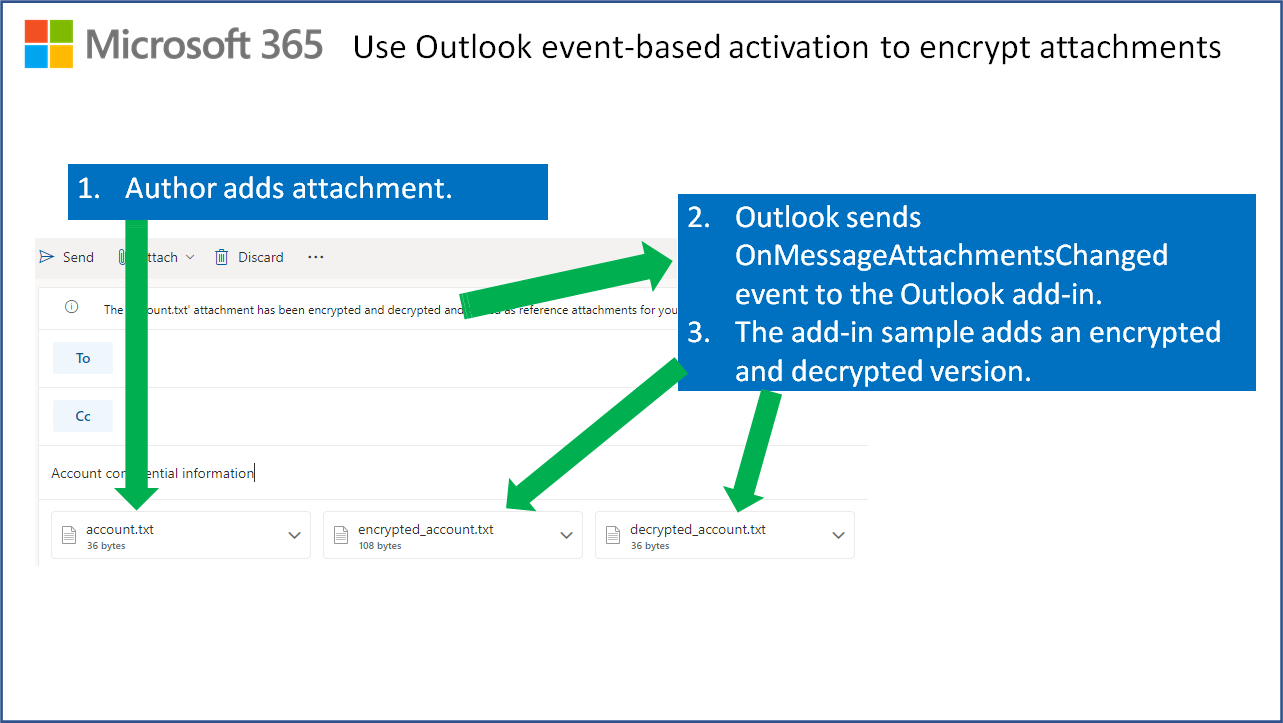
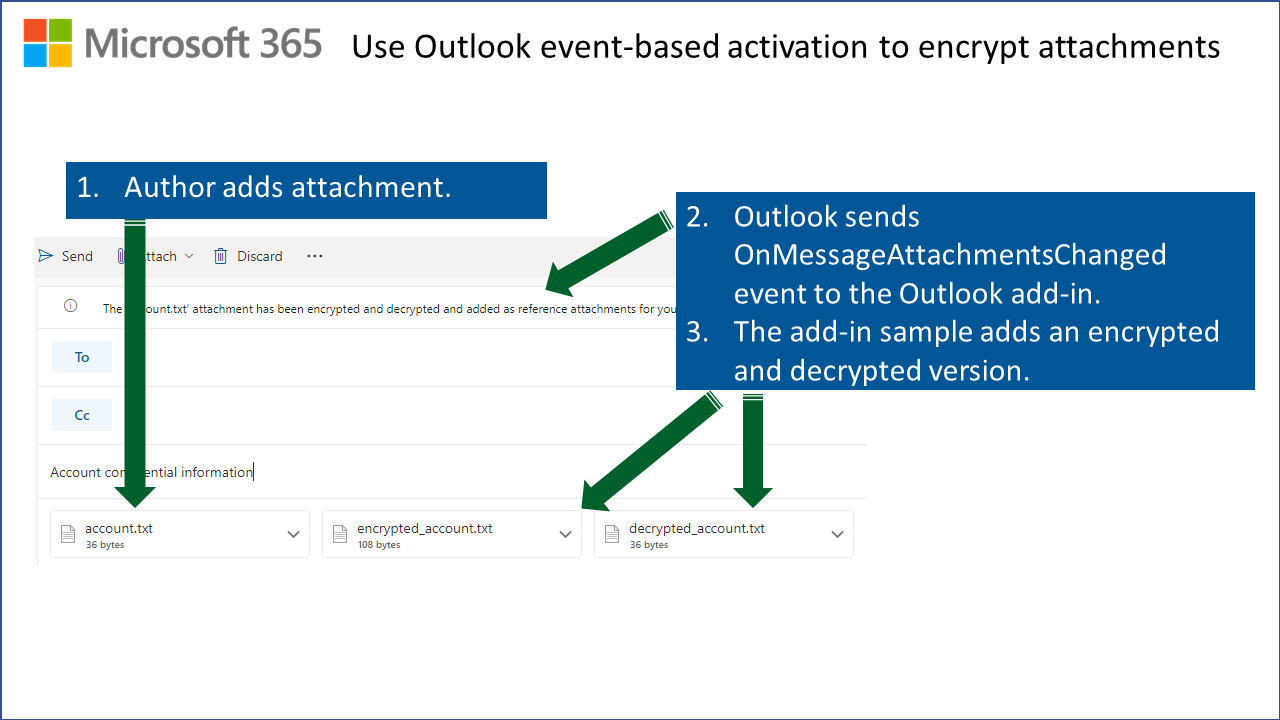
Update overview screenshot, apply formatting fixes, update links and CDN

diff --git a/Samples/outlook-encrypt-attachments/src/taskpane/taskpane_appt_compose.html b/Samples/outlook-encrypt-attachments/src/taskpane/taskpane_appt_compose.html
@@ -9,8 +9,7 @@
     <meta name="viewport" content="width=device-width, initial-scale=1">
     <title>Outlook Event-Based Activation Sample Add-in</title>
 
-    <!-- Office JavaScript ***PREVIEW*** API -->
-    <script type="text/javascript" src="https://appsforoffice.microsoft.com/lib/beta/hosted/office.js"></script>
+    <script type="text/javascript" src="https://appsforoffice.microsoft.com/lib/1.1/hosted/office.js"></script>
     <script type="text/javascript" src="taskpane.js"></script>
     <!-- For more information on Fluent UI, visit https://developer.microsoft.com/fluentui#/. -->
     <link rel="stylesheet" href="https://static2.sharepointonline.com/files/fabric/office-ui-fabric-core/9.6.1/css/fabric.min.css"/>

diff --git a/Samples/outlook-encrypt-attachments/src/taskpane/taskpane_msg_compose.html b/Samples/outlook-encrypt-attachments/src/taskpane/taskpane_msg_compose.html
@@ -9,8 +9,7 @@
     <meta name="viewport" content="width=device-width, initial-scale=1">
     <title>Outlook Event-Based Activation Sample Add-in</title>
 
-    <!-- Office JavaScript ***PREVIEW*** API -->
-    <script type="text/javascript" src="https://appsforoffice.microsoft.com/lib/beta/hosted/office.js"></script>
+    <script type="text/javascript" src="https://appsforoffice.microsoft.com/lib/1.1/hosted/office.js"></script>
     <script type="text/javascript" src="taskpane.js"></script>
     <!-- For more information on Fluent UI, visit https://developer.microsoft.com/fluentui#/. -->
     <link rel="stylesheet" href="https://static2.sharepointonline.com/files/fabric/office-ui-fabric-core/9.6.1/css/fabric.min.css"/>

diff --git a/Samples/outlook-encrypt-attachments/src/taskpane/taskpane.js b/Samples/outlook-encrypt-attachments/src/taskpane/taskpane.js
@@ -6,7 +6,7 @@
 /* global document, Office */
 
 Office.onReady((info) => {
-  console.log(`Office.onReady(): Host: ${Office.HostType.Outlook}`)
+  console.log(`Office.onReady(): Host: ${Office.HostType.Outlook}`);
   if (info.host === Office.HostType.Outlook) {
     document.getElementById("sideload-msg").style.display = "none";
     document.getElementById("app-body").style.display = "flex";     

diff --git a/Samples/outlook-encrypt-attachments/README.md b/Samples/outlook-encrypt-attachments/README.md
@@ -18,11 +18,14 @@ description: "Use Outlook event-based activation to encrypt attachments, process
 
 **Applies to**: Outlook on Windows | Outlook on the web
 
-![Screen shot of email with an attachment that has an additional encrypted version created by the sample add-in.](./assets/readme/outlook-encrypt-attachments-overview.png)
+![Message in compose mode with an attachment that has additional encrypted and decrypted versions created by the sample add-in.](./assets/readme/outlook-encrypt-attachments-overview.png)
 
 ## Summary
+
 ---
+
 This sample showcases how to use event-based activation in an Outlook add-in when the user composes an email or appointment/meeting request.  It demonstrates how to run tasks based on events that fire when certain data changes when the user:
+
 - adds an attachment to an email or appointment/meeting request
 - adds recipients or distributions lists as required or optional attendeees in a meeting request
 - changes the start or end date or time in an appointment/meeting request
@@ -38,31 +41,41 @@ This sample showcases how to use event-based activation in an Outlook add-in whe
 - **Notifications based on date/time changes.** This sample adds a notification message to an appointment when the user changes the date/time, showing the original date/time that was set when the appointment was opened. The notification message provides a reference for further date/time edits. ![Compose email](assets/readme/appointment_Outlook_desktop.png)  
 
 ## Applies to
+
 ---
+
 - Outlook on Windows
   - Outlook on the web
   - web browser
 
 ## Prerequisites
+
 ---
+
 - Microsoft 365
 
 > Note: If you don't have a Microsoft 365 subscription, you can get a [free developer sandbox](https://developer.microsoft.com/microsoft-365/dev-program#Subscription) that provides a renewable 90-day Microsoft 365 E5 subscription for development purposes.
 
 ## Solution
+
 ---
+
 | Solution | Author(s) |
 | ---- | ---- |
 | Use Outlook event-based activation to process item attachments, meeting request recipients, and appointment date/time changes. | [Eric Legault](https://twitter.com/elegault) |
 
 ## Version history
+
 ---
+
 | Version | Date       | Comments        |
 | ------- | ---------- | --------------- |
 | 1.0     | 10-14-2021 | Initial release |
 
 ## Run the sample
+
 ---
+
 Run this sample in Outlook on Windows or in a browser. The add-in web files are served from this repo on GitHub.
 
 1. Download the **manifest.xml** file from this sample to a folder on your computer.
@@ -73,12 +86,14 @@ Run this sample in Outlook on Windows or in a browser. The add-in web files are 
 Once the add-in is loaded, use the following steps to try out the functionality.
 
 #### Manage attachments
+
 1. Create a new message or appointment.
     >A notification appears at the top of the message that reads **Open the task pane for details about running the Outlook event-based activation sample add-in**. | Open task pane | Dismiss
 1. Add an attachment.
     > A notification appears at the top of the message that reads **The '{file name} attachment has been encrypted and decrypted and added as reference attachments for your review**. | Dismiss
 
 #### Set up meetings
+
 1. Create a new meeting request. In Outlook on the web, choose **More options** to expand the request and include all details. Otherwise, you won't see the notifications in the next steps.
 1. Add a user as a required or optional attendee.
     > A notification appears at the top of the message that reads **Your appointment has 1 required and 0 optional attendees**. | Dismiss
@@ -181,20 +196,20 @@ The task pane code is located under the `taskpane` folder of this project. The t
 
 ## References
 
-- [Configure your Outlook add-in for event-based activation](https://docs.microsoft.com/office/dev/add-ins/outlook/autolaunch)
-- [Debug your event-based Outlook add-in (preview)](https://docs.microsoft.com/en-ca/office/dev/add-ins/outlook/debug-autolaunch)
+- [Configure your Outlook add-in for event-based activation](https://learn.microsoft.com/office/dev/add-ins/outlook/autolaunch)
+- [Debug your event-based Outlook add-in](https://learn.microsoft.com/office/dev/add-ins/outlook/debug-autolaunch)
 - Other samples:
-  - [https://github.com/OfficeDev/PnP-OfficeAddins/tree/main/Samples/outlook-set-signature](https://github.com/OfficeDev/PnP-OfficeAddins/tree/main/Samples/outlook-set-signature)
-  - [https://github.com/OfficeDev/PnP-OfficeAddins/tree/main/Samples/outlook-tag-external](https://github.com/OfficeDev/PnP-OfficeAddins/tree/main/Samples/outlook-tag-external)
+  - [Use Outlook event-based activation to set the signature](https://github.com/OfficeDev/PnP-OfficeAddins/tree/main/Samples/outlook-set-signature)
+  - [Use Outlook event-based activation to tag external recipients](https://github.com/OfficeDev/PnP-OfficeAddins/tree/main/Samples/outlook-tag-external)
 - [crypto-js](https://www.npmjs.com/package/crypto-js)
-- [Office.SessionData interface](https://docs.microsoft.com/javascript/api/outlook/office.sessiondata?view=outlook-js-preview)
-- [Microsoft Office Add-in Debugger Extension for Visual Studio Code](https://docs.microsoft.com/office/dev/add-ins/testing/debug-with-vs-extension)
-- [Develop Office Add-ins with Visual Studio Code](https://docs.microsoft.com/office/dev/add-ins/develop/develop-add-ins-vscode)
+- [Office.SessionData interface](https://learn.microsoft.com/javascript/api/outlook/office.sessiondata)
+- [Microsoft Office Add-in Debugger Extension for Visual Studio Code](https://learn.microsoft.com/office/dev/add-ins/testing/debug-with-vs-extension)
+- [Develop Office Add-ins with Visual Studio Code](https://learn.microsoft.com/office/dev/add-ins/develop/develop-add-ins-vscode)
 - [Office Add-ins with Visual Studio Code](https://code.visualstudio.com/docs/other/office)
 - [Debugging with Visual Studio Code](https://code.visualstudio.com/docs/editor/debugging)
 - [Node.js debugging in VS Code](https://code.visualstudio.com/docs/nodejs/nodejs-debugging)
 - [Office-Addin-Debugging](https://www.npmjs.com/package/office-addin-debugging)
-- Getting recipients and attendees: `https://raw.githubusercontent.com/OfficeDev/office-js-snippets/prod/samples/outlook/30-recipients-and-attendees/get-set-required-attendees-appointment-organizer.yaml`
+- [Getting recipients and attendees Script Lab sample](https://raw.githubusercontent.com/OfficeDev/office-js-snippets/prod/samples/outlook/30-recipients-and-attendees/get-set-required-attendees-appointment-organizer.yaml)
 
 ## Copyright
 
